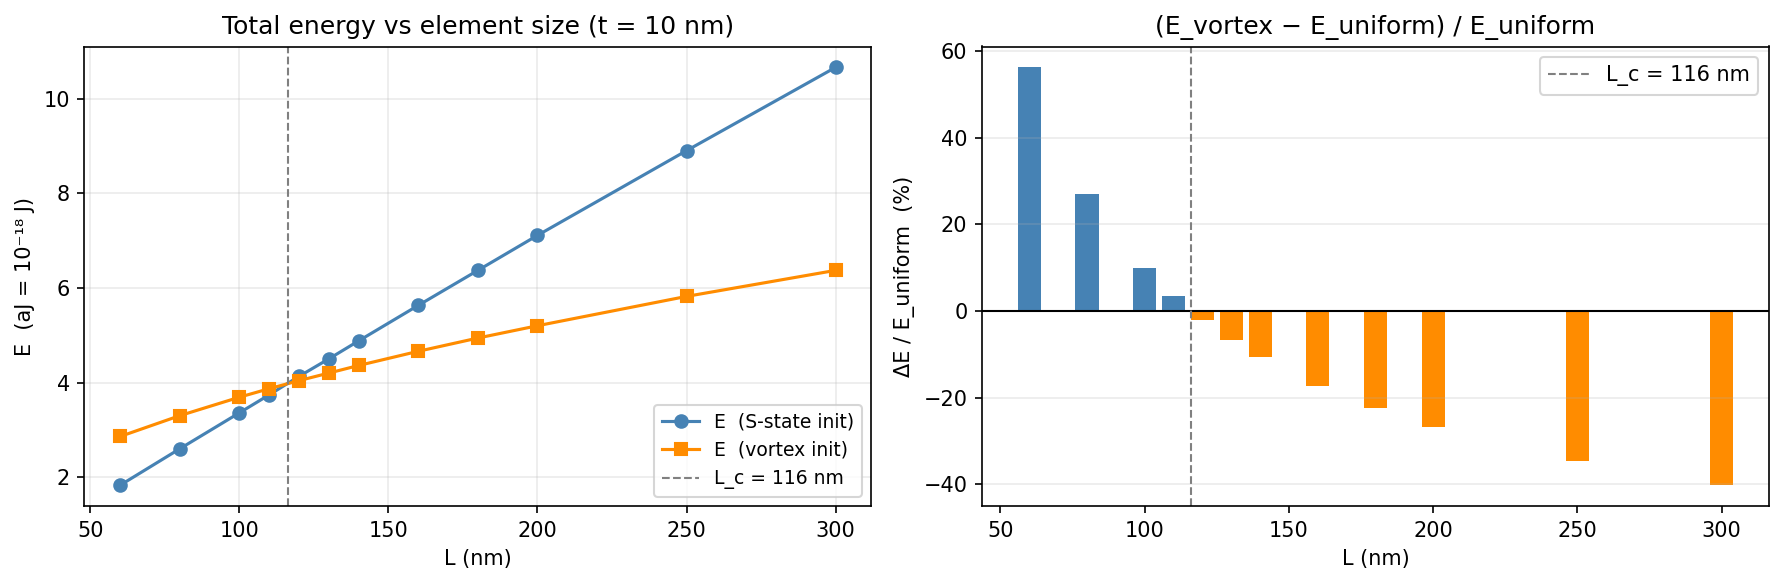
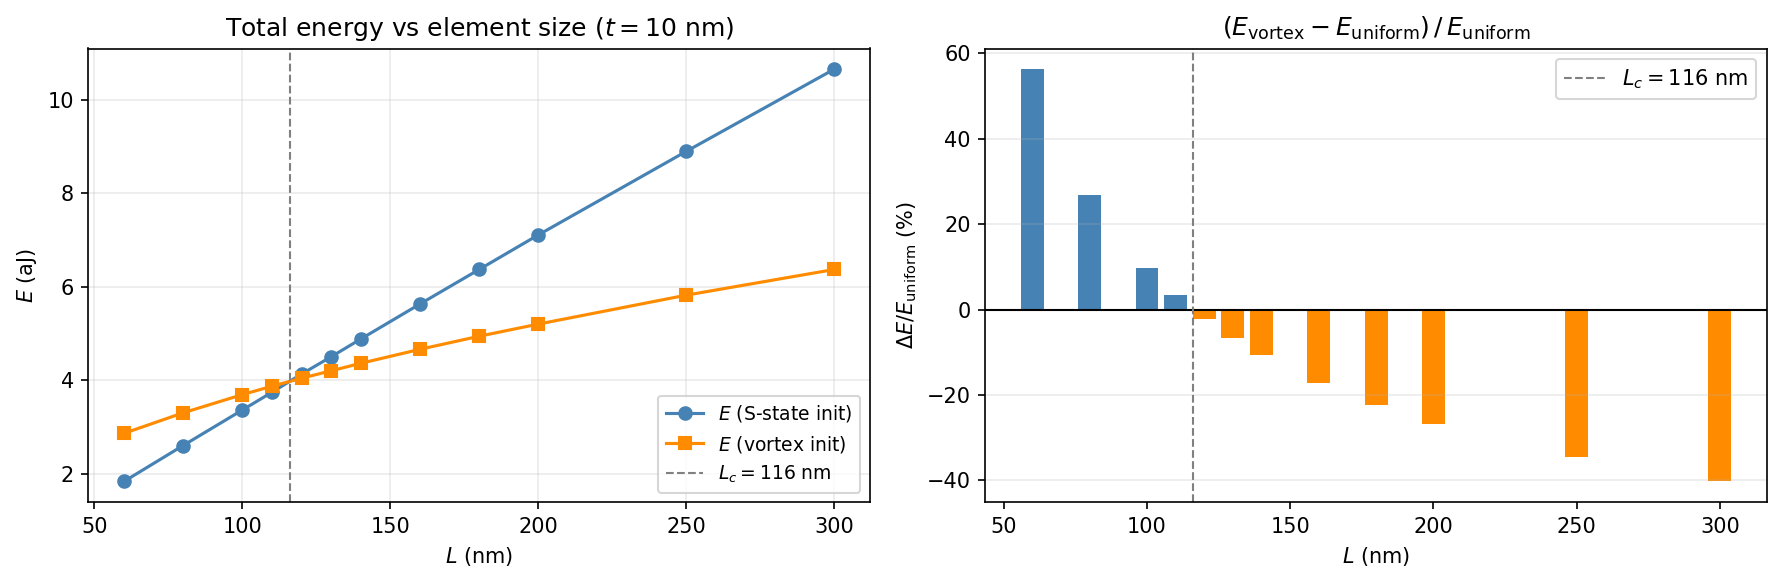
style(figures): math subscripts/Greek in NB02/NB29/F2 labels; post-BC notebook PNGs refreshed

diff --git a/notebooks/02_sp1_phase_diagram.py b/notebooks/02_sp1_phase_diagram.py
@@ -46,22 +46,22 @@ print(f"Critical size from pre-computed data:  L_c ~ {Lc:.1f} nm")
 fig, axes = plt.subplots(1, 2, figsize=(12, 4))
 
 # Left: energies vs L
-axes[0].plot(L, Eu, 'o-', color='steelblue',  label='E  (S-state init)', lw=1.5)
-axes[0].plot(L, Ev, 's-', color='darkorange', label='E  (vortex init)',  lw=1.5)
-axes[0].axvline(Lc, color='gray', ls='--', lw=1, label=f'L_c = {Lc:.0f} nm')
-axes[0].set_xlabel('L (nm)')
-axes[0].set_ylabel('E  (aJ = 10⁻¹⁸ J)')
-axes[0].set_title('Total energy vs element size (t = 10 nm)')
+axes[0].plot(L, Eu, 'o-', color='steelblue',  label=r'$E$ (S-state init)', lw=1.5)
+axes[0].plot(L, Ev, 's-', color='darkorange', label=r'$E$ (vortex init)',  lw=1.5)
+axes[0].axvline(Lc, color='gray', ls='--', lw=1, label=rf'$L_c = {Lc:.0f}$ nm')
+axes[0].set_xlabel(r'$L$ (nm)')
+axes[0].set_ylabel(r'$E$ (aJ)')
+axes[0].set_title(r'Total energy vs element size ($t = 10$ nm)')
 axes[0].legend(fontsize=9)
 axes[0].grid(True, alpha=0.25)
 
 # Right: ΔE/E_uniform
 axes[1].bar(L, dE, width=8, color=['steelblue' if d >= 0 else 'darkorange' for d in dE])
 axes[1].axhline(0, color='k', lw=1)
-axes[1].axvline(Lc, color='gray', ls='--', lw=1, label=f'L_c = {Lc:.0f} nm')
-axes[1].set_xlabel('L (nm)')
-axes[1].set_ylabel('ΔE / E_uniform  (%)')
-axes[1].set_title('(E_vortex − E_uniform) / E_uniform')
+axes[1].axvline(Lc, color='gray', ls='--', lw=1, label=rf'$L_c = {Lc:.0f}$ nm')
+axes[1].set_xlabel(r'$L$ (nm)')
+axes[1].set_ylabel(r'$\Delta E / E_\mathrm{uniform}$ (%)')
+axes[1].set_title(r'$(E_\mathrm{vortex} - E_\mathrm{uniform})\,/\,E_\mathrm{uniform}$')
 axes[1].legend()
 axes[1].grid(True, alpha=0.25, axis='y')
 
@@ -91,10 +91,10 @@ Lc_fit = a * t_fit**beta
 fig, ax = plt.subplots(figsize=(6, 5))
 ax.loglog(t_nm, Lc_nm, 'o', markersize=8, color='steelblue', label='Simulation')
 ax.loglog(t_fit, Lc_fit, '--', color='steelblue', alpha=0.6,
-          label=f'Fit: L_c = {a:.0f}·t^{beta:.2f}')
-ax.set_xlabel('Thickness  t  (nm)')
-ax.set_ylabel('Critical size  L_c  (nm)')
-ax.set_title('Vortex nucleation: L_c vs thickness\n(Permalloy squares, Exchange + Demag)')
+          label=rf'Fit: $L_c = {a:.0f}\,t^{{{beta:.2f}}}$')
+ax.set_xlabel(r'Thickness $t$ (nm)')
+ax.set_ylabel(r'Critical size $L_c$ (nm)')
+ax.set_title('Vortex nucleation: $L_c$ vs thickness\n(Permalloy squares, Exchange + Demag)')
 ax.legend()
 ax.grid(True, which='both', alpha=0.2)
 # Annotate data points
@@ -181,8 +181,8 @@ for ax, arr, title in zip(axes, arrays, titles):
     ax.quiver(X[::s], Y[::s], mx[::s, ::s], my[::s, ::s],
               scale=15, width=0.006, color='k', alpha=0.6)
     ax.set_title(f'{title}\nE = {(E_u if "S" in title else E_v)*1e18:.3f} aJ')
-    ax.set_xlabel('x (nm)'); ax.set_ylabel('y (nm)')
-    plt.colorbar(im, ax=ax, label='mx')
+    ax.set_xlabel(r'$x$ (nm)'); ax.set_ylabel(r'$y$ (nm)')
+    plt.colorbar(im, ax=ax, label=r'$m_x$')
 
 plt.suptitle(f'L = {L_nm} nm × {L_nm} nm × 10 nm Permalloy', y=1.02)
 plt.tight_layout()

diff --git a/notebooks/29_walker_breakdown_gpu.py b/notebooks/29_walker_breakdown_gpu.py
@@ -217,15 +217,15 @@ try:
 
     # v vs J
     ax = axes[0]
-    ax.plot(J_arr/1e12, v_arr, 'o-', color='C0', lw=2, ms=8, label='GPU sim (Neel DW)')
+    ax.plot(J_arr/1e12, v_arr, 'o-', color='C0', lw=2, ms=8, label='GPU sim (Néel DW)')
     ax.plot(J_arr/1e12, v_sub_ratio * u_arr, '--', color='C2', lw=2,
-            label=f'Sub-Walker: {v_sub_ratio:.0f}*u')
+            label=rf'sub-Walker: $v={v_sub_ratio:.0f}\,u$')
     ax.plot(J_arr/1e12, v_abv_ratio * u_arr, ':', color='C3', lw=2,
-            label=f'Above-Walker: {v_abv_ratio:.3f}*u')
+            label=rf'above-Walker: $v={v_abv_ratio:.3f}\,u$')
     ax.axvline(J_W_sim/1e12, color='k', ls='--', lw=1.5, alpha=0.7,
-               label=f'J_W ~ {J_W_sim/1e12:.2f}e12')
-    ax.set_xlabel('J (1e12 A/m2)'); ax.set_ylabel('DW velocity (m/s)')
-    ax.set_title(f'Walker Breakdown (flat 10x strip)\nxi/alpha={int(abs(v_sub_ratio))}  J_W~{J_W_sim/1e12:.2f}e12')
+               label=rf'$J_W \approx {J_W_sim/1e12:.2f}\times10^{{12}}$')
+    ax.set_xlabel(r'$J$ ($10^{12}$ A m$^{-2}$)'); ax.set_ylabel(r'$v_\mathrm{DW}$ (m s$^{-1}$)')
+    ax.set_title(rf'Walker breakdown (flat strip)' + '\n' + rf'$\xi/\alpha={int(abs(v_sub_ratio))}$,  $J_W\approx{J_W_sim/1e12:.2f}\times10^{{12}}$ A m$^{{-2}}$')
     ax.legend(fontsize=7.5); ax.grid(alpha=0.3)
 
     # DW position vs time
@@ -234,18 +234,18 @@ try:
     for i, (lbl, pos_b) in enumerate(zip(lbl_cases, traj_pos)):
         ax.plot(t_common, np.array(pos_b)*1e9, '-', color=cols[i], lw=2, label=lbl)
     ax.axhline(x0*1e9, color='k', ls='--', lw=1, alpha=0.4)
-    ax.set_xlabel('Time (ps)'); ax.set_ylabel('DW position (nm)')
-    ax.set_title('DW position vs time\n(sub-Walker moves FASTER!)')
+    ax.set_xlabel(r'$t$ (ps)'); ax.set_ylabel(r'$x_\mathrm{DW}$ (nm)')
+    ax.set_title('DW position vs time\n(sub-Walker moves faster)')
     ax.legend(fontsize=8); ax.grid(alpha=0.3)
 
     # DW core my and mz vs time
     ax = axes[2]
     for i, (lbl, my_b, mz_b) in enumerate(zip(lbl_cases, traj_my, traj_mz)):
-        ax.plot(t_common, my_b, '-', color=cols[i], lw=2, label=f'{lbl} my')
-        ax.plot(t_common, mz_b, '--', color=cols[i], lw=1.5, alpha=0.7, label=f'{lbl} mz')
+        ax.plot(t_common, my_b, '-', color=cols[i], lw=2, label=rf'{lbl} $m_y$')
+        ax.plot(t_common, mz_b, '--', color=cols[i], lw=1.5, alpha=0.7, label=rf'{lbl} $m_z$')
     ax.axhline(0, color='k', ls=':', lw=1, alpha=0.4)
-    ax.set_xlabel('Time (ps)'); ax.set_ylabel('DW core magnetization')
-    ax.set_title('DW core: my (solid), mz (dashed)\nAbove-Walker: mz oscillates!')
+    ax.set_xlabel(r'$t$ (ps)'); ax.set_ylabel(r'DW core $m_y$, $m_z$')
+    ax.set_title('DW core: $m_y$ (solid), $m_z$ (dashed)\nabove-Walker: $m_z$ oscillates')
     ax.legend(fontsize=6.5); ax.grid(alpha=0.3)
 
     plt.suptitle(

diff --git a/benchmarks/paper_figs/make_f2.py b/benchmarks/paper_figs/make_f2.py
@@ -24,7 +24,7 @@ sgn = np.sign(Es - Ev); idx = np.where(np.diff(sgn) != 0)[0]
 if len(idx):
     i = idx[0]; Lc = L[i] + (L[i+1]-L[i])*(Es-Ev)[i]/((Es-Ev)[i]-(Es-Ev)[i+1])
     ax.axvline(Lc, color="gray", ls="--"); ax.text(Lc, ax.get_ylim()[1]*0.95, f"$L_c$={Lc:.0f}nm", fontsize=8)
-ax.set_xlabel("L (nm)"); ax.set_ylabel("E (aJ)"); ax.set_title("(a) SP#1 phase: $L_c$"); ax.legend(fontsize=8); ax.grid(alpha=0.3)
+ax.set_xlabel(r"$L$ (nm)"); ax.set_ylabel(r"$E$ (aJ)"); ax.set_title("(a) SP#1 phase: $L_c$"); ax.legend(fontsize=8); ax.grid(alpha=0.3)
 
 # (b) SP#2 — remanence vs d/lex
 ax = fig.add_subplot(gs[0, 2:4])
@@ -41,7 +41,7 @@ c3 = d3["cs"][0]
 H = np.array(c3["H_mT"]); mx = np.array(c3["mx"])
 ax.plot(H, mx, "o-", ms=3)
 ax.axhline(0, color="gray", lw=0.6); ax.axvline(0, color="gray", lw=0.6)
-ax.set_xlabel("$H$ (mT)"); ax.set_ylabel(r"$\langle m_x\rangle$")
+ax.set_xlabel(r"$\mu_0H$ (mT)"); ax.set_ylabel(r"$\langle m_x\rangle$")
 ax.set_title("(c) SP#3 hysteresis"); ax.grid(alpha=0.3)
 
 # (d) SP#4 — <m>(t)
@@ -51,7 +51,7 @@ ax.plot(t4[:,0], t4[:,1], label=r"$\langle m_x\rangle$")
 ax.plot(t4[:,0], t4[:,2], label=r"$\langle m_y\rangle$")
 ax.plot(t4[:,0], t4[:,3], label=r"$\langle m_z\rangle$")
 ax.axhline(-0.9862, color="k", ls=":", lw=1, label="µMAG ref $m_x(1ns)$")
-ax.set_xlabel("t (ns)"); ax.set_ylabel(r"$\langle m\rangle$")
+ax.set_xlabel(r"$t$ (ns)"); ax.set_ylabel(r"$\langle m\rangle$")
 ax.set_title(r"(d) SP#4 Field A: $\langle m_x\rangle(1ns)$=%.3f (ref −0.986)" % t4[-1,1])
 ax.legend(fontsize=8, ncol=2); ax.grid(alpha=0.3)
 
@@ -59,7 +59,7 @@ ax.legend(fontsize=8, ncol=2); ax.grid(alpha=0.3)
 ax = fig.add_subplot(gs[1, 3:6])
 sp5 = np.loadtxt(BM / "sp5" / "core_double.txt")
 ax.plot(sp5[:,1], sp5[:,2], "-", lw=1)
-ax.plot(sp5[0,1], sp5[0,2], "go", label="start"); ax.plot(sp5[-1,1], sp5[-1,2], "rs", label="t=8ns")
+ax.plot(sp5[0,1], sp5[0,2], "go", label="start"); ax.plot(sp5[-1,1], sp5[-1,2], "rs", label=r"$t=8$ ns")
 ax.set_xlabel(r"$x_c$ (nm)"); ax.set_ylabel(r"$y_c$ (nm)")
 ax.set_title("(e) SP#5 vortex-core gyration (Zhang-Li STT)")
 ax.legend(fontsize=8); ax.grid(alpha=0.3); ax.set_aspect("equal", "datalim")
